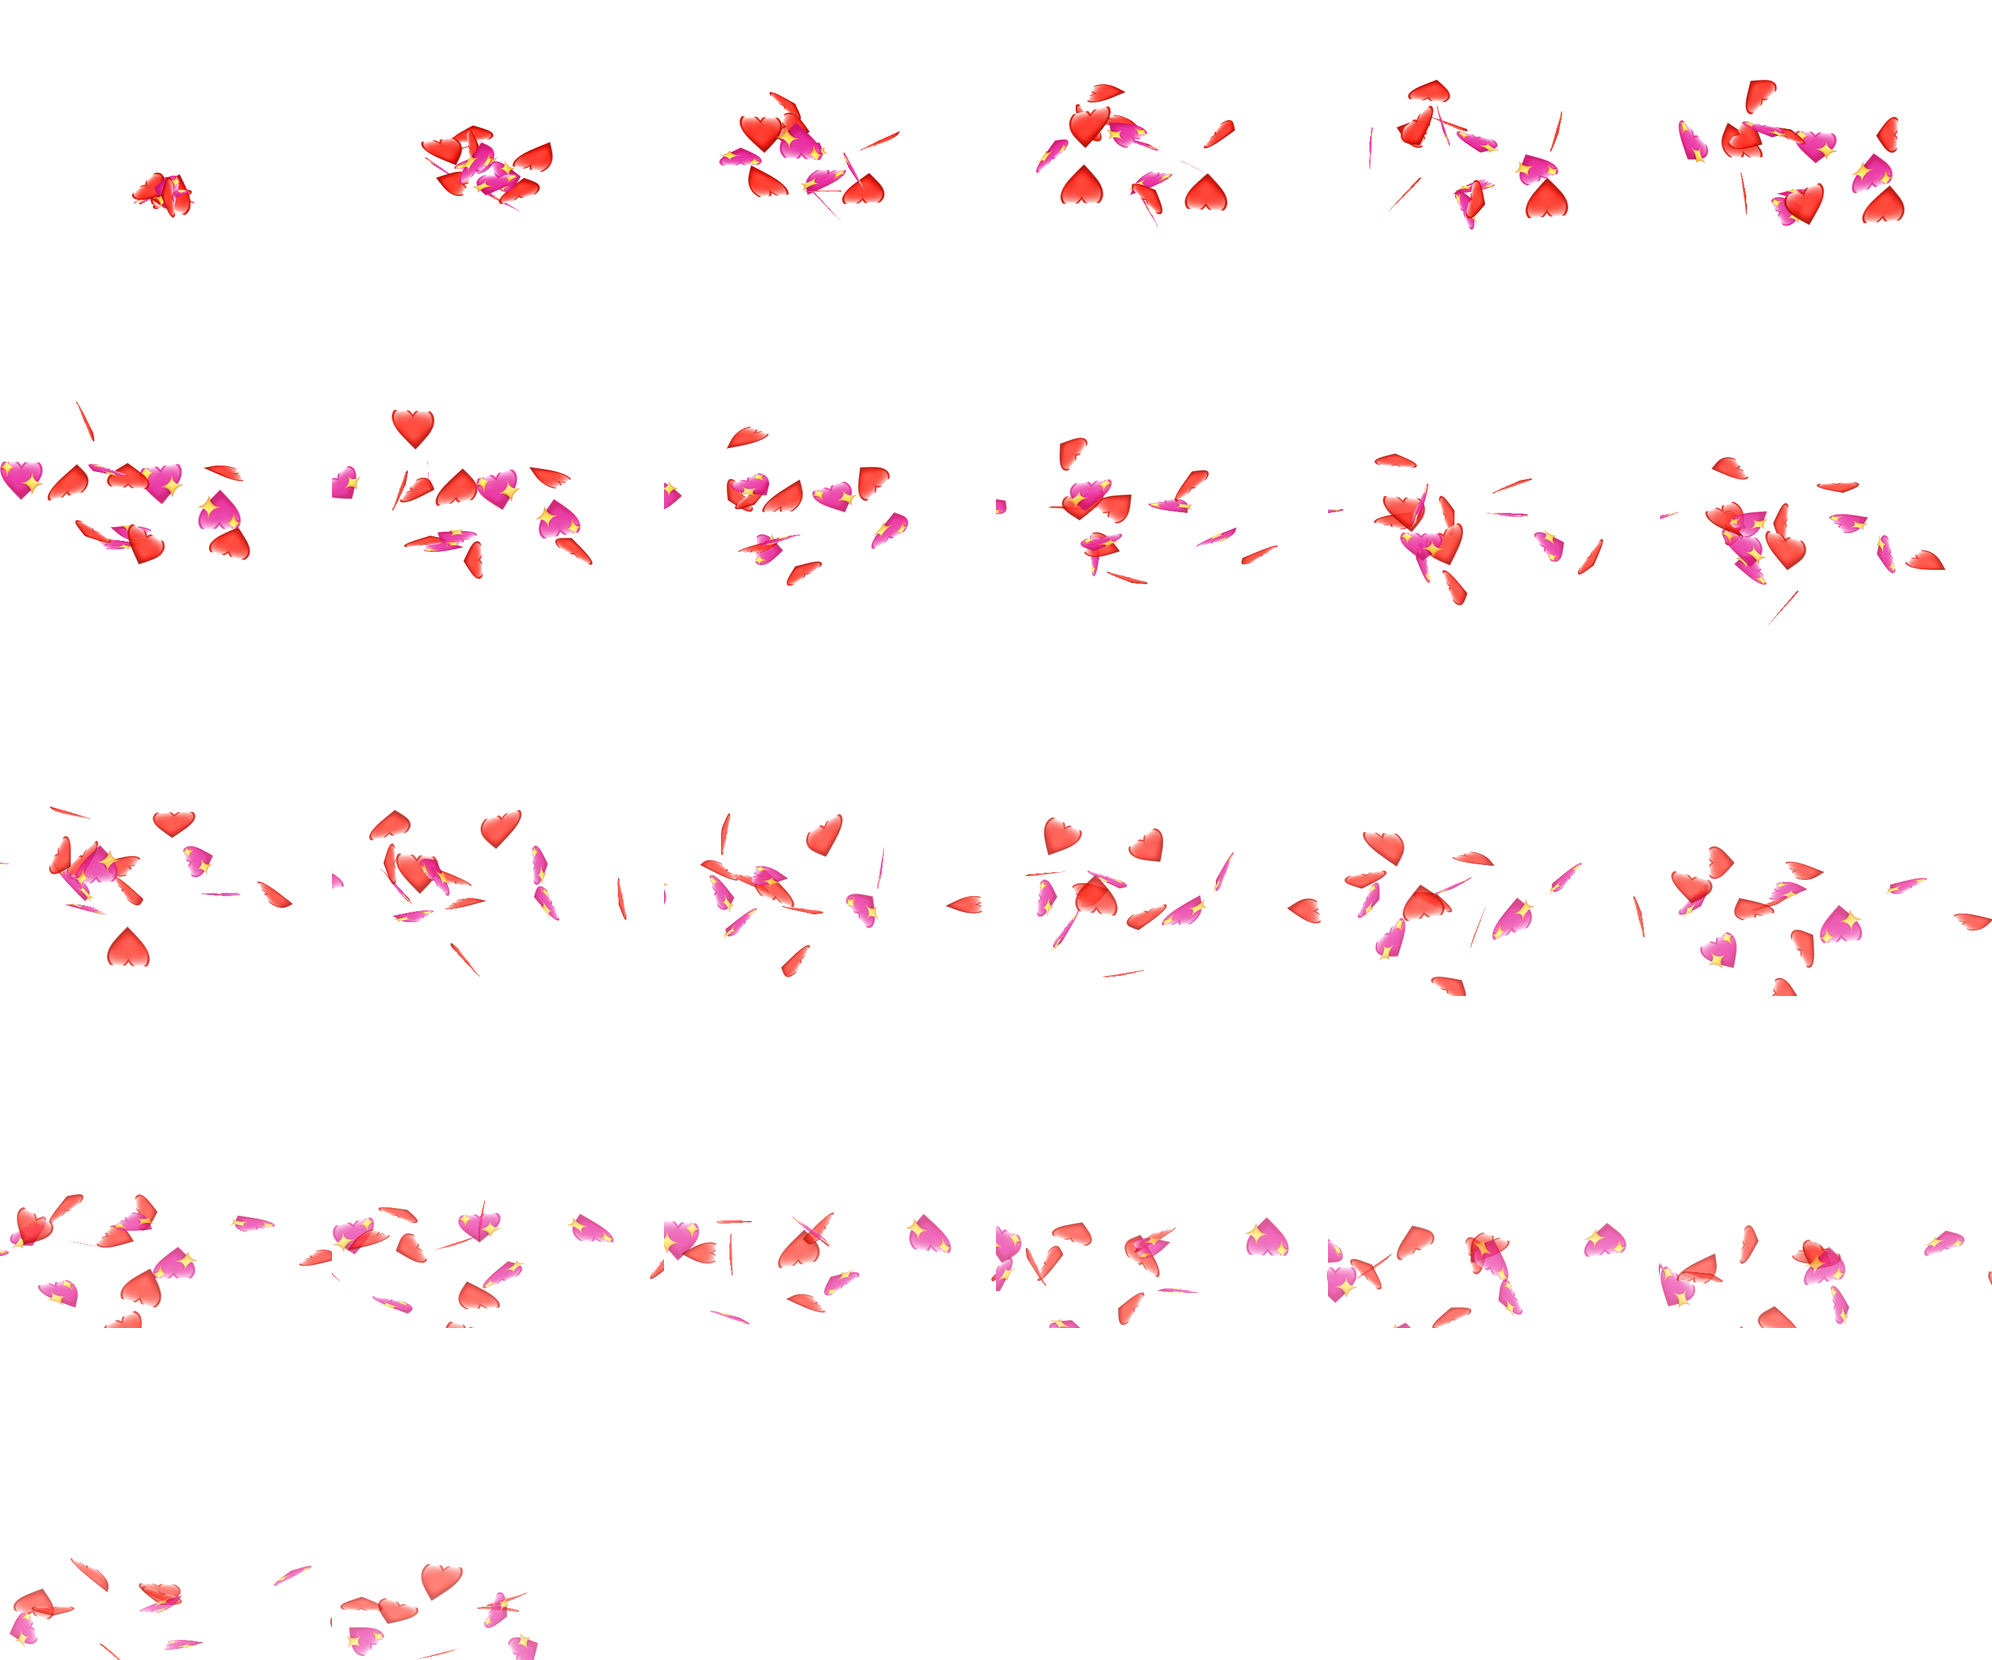
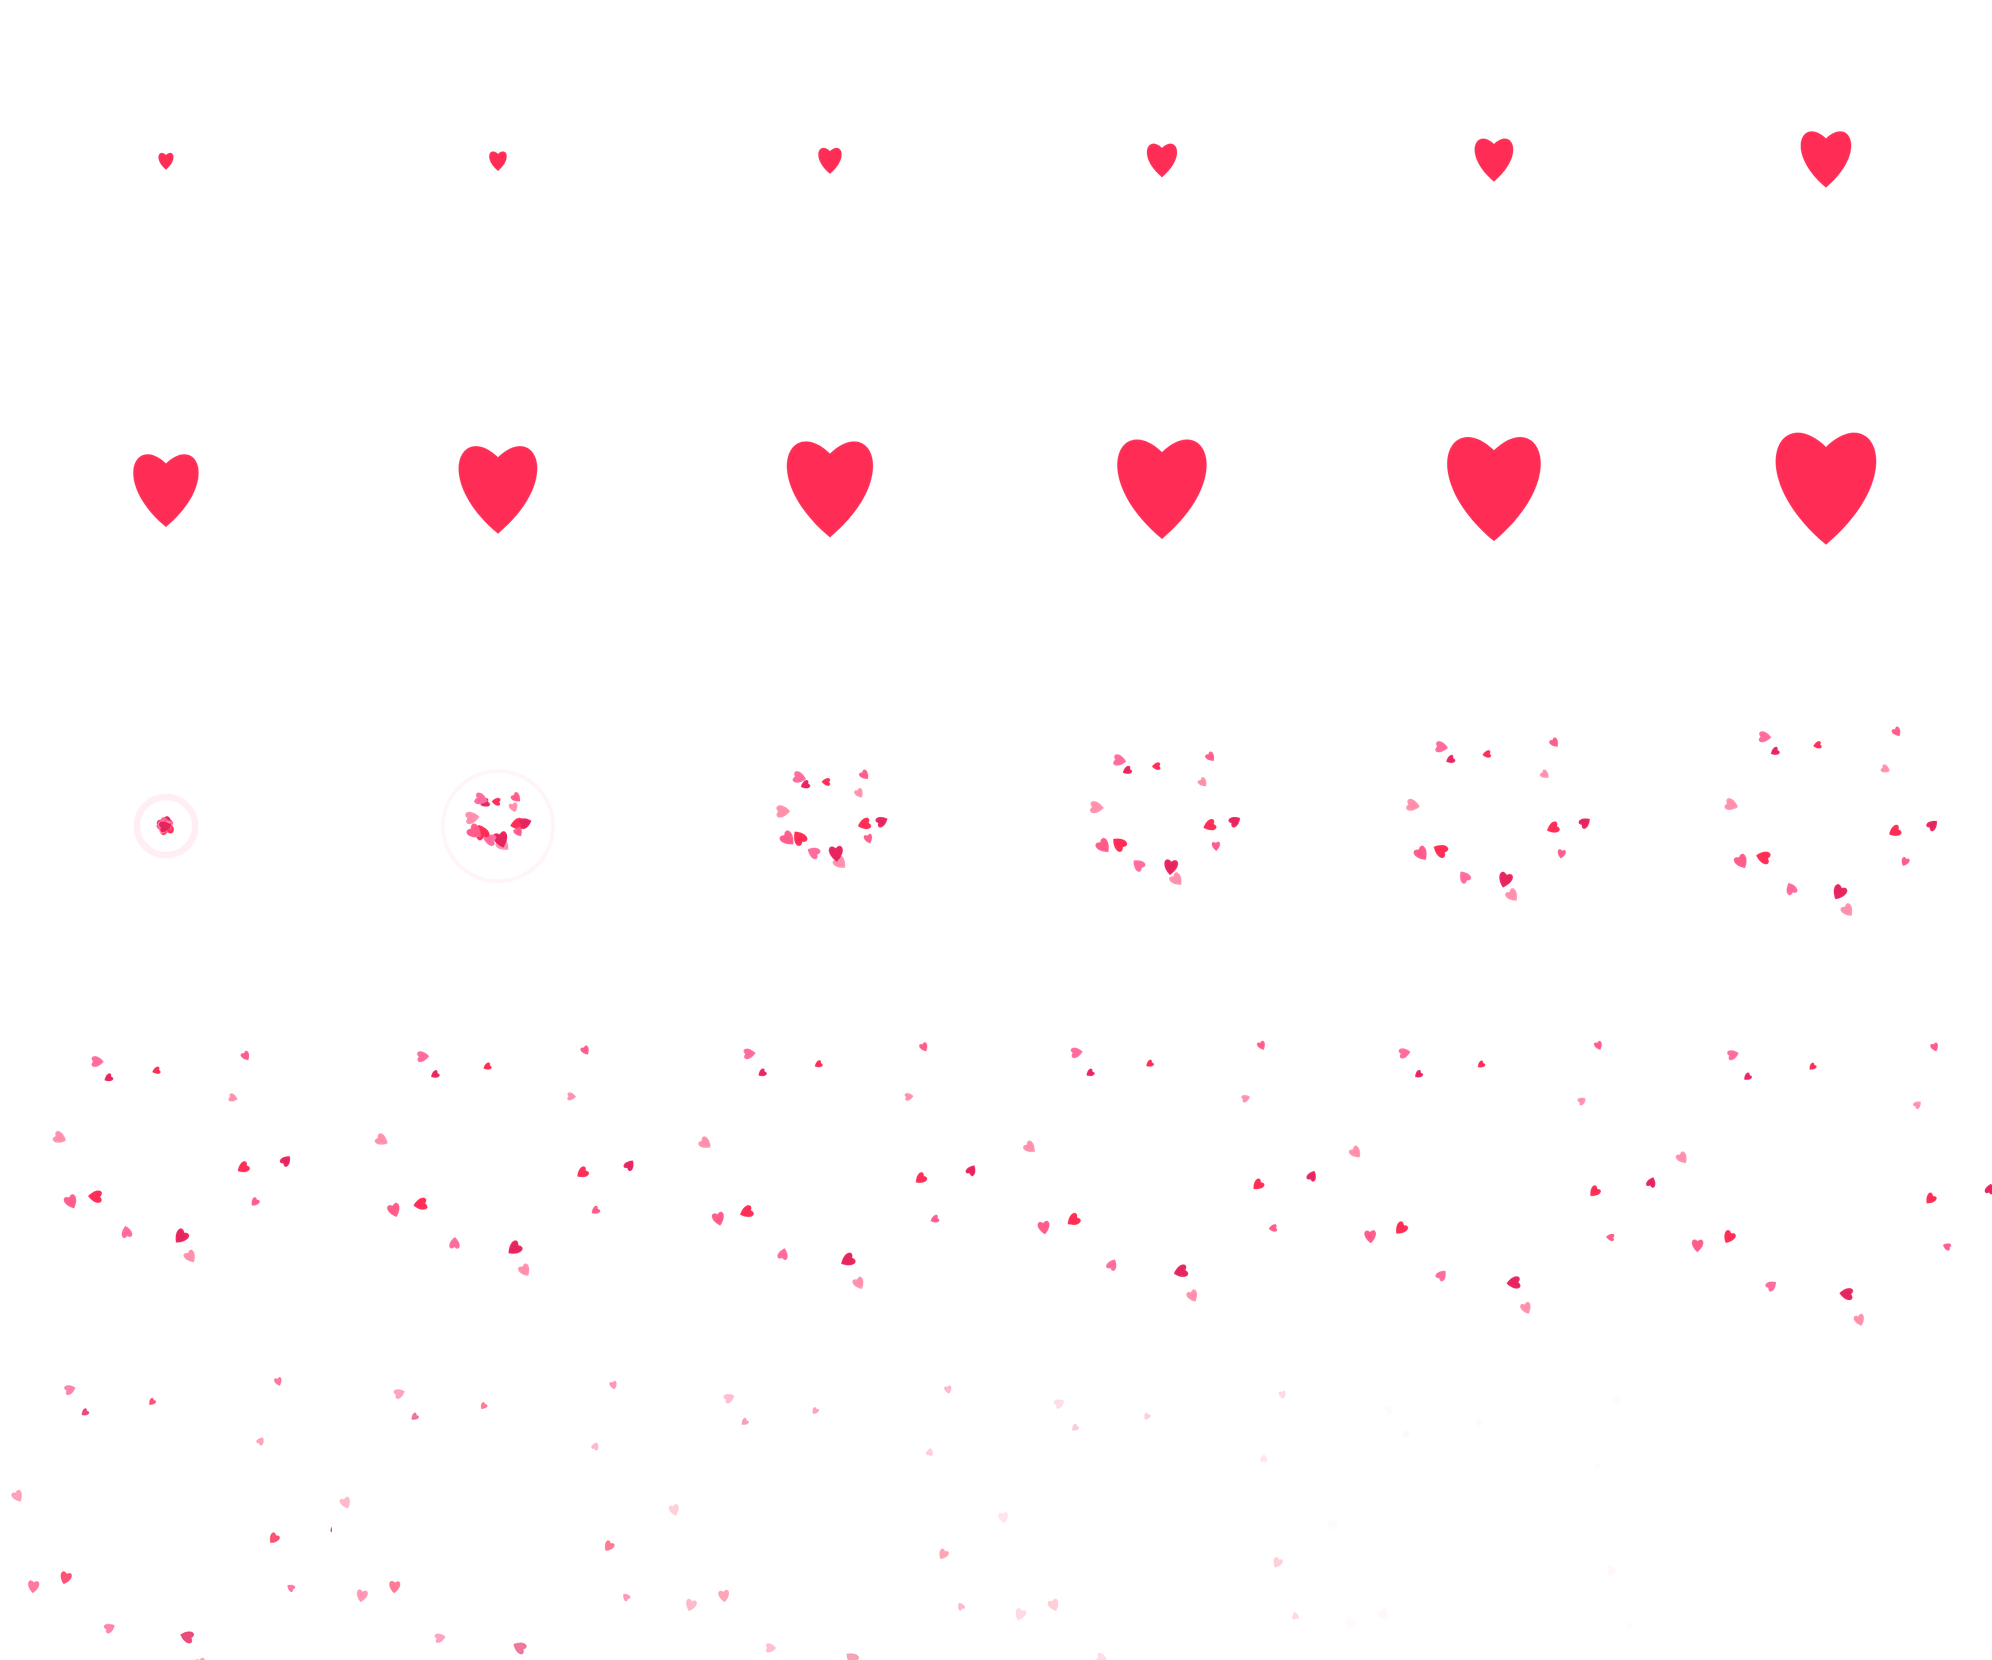
Bursting hearts redrawn by hand; fireworks run two at a time
Dave's verdict on the filmed emoji preset: 'a mess of things falling'.
The sheet is now drawn frame-by-frame on a canvas instead of filmed
from tsparticles: a heart grows with two heartbeat thumps, pops with a
small flash ring, and shatters into 14 small hearts that fly out
confetti-style, slow under drag and fade. Deterministic (seeded), so
no physics library and no filming clock; a double-rAF after each draw
fixes a compositor race that shipped 13 blank frames on the first run.

Fireworks were too sparse as a single player - there are now two
popup entries with different cycle counts (1x and 2x playthroughs per
position), so shells overlap and drift out of phase instead of firing
in lockstep. Dwell is an exact multiple of the sheet length, putting
every pop-out inside the faded tail frames.

Sheets now deploy under content-hashed names: regenerated art at the
same url would otherwise stay stale in the TV texture cache and R2.

Generator takes asset names as args (only bsheart was refilmed here;
burst.png and the firework sheet are untouched).

diff --git a/tools/generate-celebrations.js b/tools/generate-celebrations.js
@@ -48,25 +48,102 @@ const ASSETS = [
   },
   {
     name: "bsheart",
-    frames: 26,
-    // bursting hearts: the same shell with heart emoji, floatier
-    fire: `
-      confetti({ particleCount: 14, spread: 160, startVelocity: 16, ticks: 90,
-                 gravity: 0.35, scalar: 7, origin: { x: 0.5, y: 0.6 }, zIndex: 9,
-                 shapes: ["emoji"], shapeOptions: { emoji: { value: ["\\u2764\\uFE0F", "\\uD83D\\uDC96"] } } });`,
+    frames: 30,
+    // Bursting hearts, drawn by hand (Dave 2026-08-26: the filmed emoji
+    // preset "looks like a mess of things falling"). A heart grows with
+    // two heartbeat thumps, pops with a flash ring, and shatters into
+    // small hearts that fly out confetti-style, slow under drag and fade.
+    // Deterministic canvas per frame - no physics library, no waiting.
+    custom: `
+      (() => {
+        const C = document.createElement("canvas");
+        C.width = 512; C.height = 512;
+        C.style.cssText = "position:fixed;left:0;top:0";
+        document.body.appendChild(C);
+        const ctx = C.getContext("2d");
+        let s = 42;                       // seeded so every frame agrees
+        const rnd = () => (s = (s * 1664525 + 1013904223) >>> 0) / 4294967296;
+        const COLORS = ["#ff2d55", "#ff5c8a", "#ff8fab", "#e6255f", "#ff6b9d"];
+        const parts = [];
+        for (let i = 0; i < 14; i++) {
+          parts.push({
+            a: (i / 14) * Math.PI * 2 + rnd() * 0.5,
+            sp: 26 + rnd() * 22,
+            size: 20 + rnd() * 18,
+            color: COLORS[i % COLORS.length],
+            rot: rnd() * Math.PI * 2,
+            rotV: (rnd() - 0.5) * 0.5,
+          });
+        }
+        function heart(x, y, size, rot, color, alpha) {
+          ctx.save();
+          ctx.translate(x, y);
+          ctx.rotate(rot);
+          ctx.scale(size / 100, size / 100);
+          ctx.globalAlpha = alpha;
+          ctx.fillStyle = color;
+          ctx.beginPath();
+          ctx.moveTo(0, 30);
+          ctx.bezierCurveTo(-50, -12, -28, -55, 0, -28);
+          ctx.bezierCurveTo(28, -55, 50, -12, 0, 30);
+          ctx.fill();
+          ctx.restore();
+        }
+        const POP = 12, FRAMES = 30, cx = 256, cy = 250;
+        window.renderFrame = (f) => {
+          ctx.clearRect(0, 0, 512, 512);
+          if (f < POP) {
+            // smoothstep growth 0.15 -> 1 with thumps that strengthen
+            const t = f / (POP - 1);
+            const sc = 0.15 + 0.85 * (t * t * (3 - 2 * t)) + Math.sin(t * Math.PI * 4) * 0.06 * t;
+            heart(cx, cy, 260 * sc, 0, "#ff2d55", 1);
+          } else {
+            const k = f - POP;
+            if (k < 2) {                  // pop flash
+              ctx.save();
+              ctx.globalAlpha = 0.4 - k * 0.18;
+              ctx.strokeStyle = "#ffd7e2";
+              ctx.lineWidth = 10 - k * 4;
+              ctx.beginPath();
+              ctx.arc(cx, cy, 45 + k * 40, 0, Math.PI * 2);
+              ctx.stroke();
+              ctx.restore();
+            }
+            for (const p of parts) {
+              let x = cx, y = cy, vx = Math.cos(p.a) * p.sp, vy = Math.sin(p.a) * p.sp - 6;
+              for (let i = 0; i < k; i++) { x += vx; y += vy; vx *= 0.86; vy = vy * 0.86 + 2.1; }
+              const life = k / (FRAMES - POP - 1);
+              const alpha = life < 0.65 ? 1 : Math.max(0, 1 - (life - 0.65) / 0.3);
+              if (alpha > 0.01) heart(x, y, p.size * (1 - life * 0.25), p.rot + p.rotV * k, p.color, alpha);
+            }
+          }
+        };
+      })();`,
   },
 ];
 
 async function filmAsset(browser, asset) {
   const page = await browser.newPage({ viewport: { width: CANVAS, height: CANVAS } });
-  const lib = fs.readFileSync(path.join(PORTAL, "js/vendor/tsparticles.confetti.bundle.min.js"), "utf8");
   await page.setContent("<html><body style='margin:0;background:transparent'></body></html>");
-  await page.addScriptTag({ content: lib });
-  await page.evaluate(asset.fire);
   const frames = [];
-  for (let i = 0; i < asset.frames; i++) {
-    frames.push(await page.screenshot({ omitBackground: true, type: "png" }));
-    await page.waitForTimeout(FRAME_MS);
+  if (asset.custom) {
+    // deterministic renderer: draw frame i, shoot it, no clocks involved
+    await page.addScriptTag({ content: asset.custom });
+    for (let i = 0; i < asset.frames; i++) {
+      await page.evaluate("renderFrame(" + i + ")");
+      // the screenshot can beat the canvas layer's compositor commit
+      // (seen live: 13 blank frames); two rAFs guarantee the draw landed
+      await page.evaluate("new Promise(r => requestAnimationFrame(() => requestAnimationFrame(r)))");
+      frames.push(await page.screenshot({ omitBackground: true, type: "png" }));
+    }
+  } else {
+    const lib = fs.readFileSync(path.join(PORTAL, "js/vendor/tsparticles.confetti.bundle.min.js"), "utf8");
+    await page.addScriptTag({ content: lib });
+    await page.evaluate(asset.fire);
+    for (let i = 0; i < asset.frames; i++) {
+      frames.push(await page.screenshot({ omitBackground: true, type: "png" }));
+      await page.waitForTimeout(FRAME_MS);
+    }
   }
   await page.close();
   return frames;
@@ -100,11 +177,16 @@ async function packSheet(frames) {
 }
 
 (async () => {
+  // regenerate selectively: `node tools/generate-celebrations.js bsheart`
+  // (filming is non-deterministic for the tsparticles assets, so an
+  // untouched asset should not be refilmed into a noisy diff)
+  const only = process.argv.slice(2);
   const browser = await chromium.launch();
   fs.mkdirSync(path.join(REPO, "images", "celebrations"), { recursive: true });
   fs.mkdirSync(path.join(SVC, "effect-assets"), { recursive: true });
 
   for (const asset of ASSETS) {
+    if (only.length && !only.includes(asset.name)) continue;
     process.stdout.write("filming " + asset.name + "... ");
     const frames = await filmAsset(browser, asset);
     const { sheet, meta } = await packSheet(frames);

diff --git a/render-service/nativeWidgets.js b/render-service/nativeWidgets.js
@@ -1361,19 +1361,24 @@ const SCARY_GIFS = [
 ];
 
 // A pre-rendered burst sheet shipped inside the image (effect-assets/,
-// generated at build time). Dwell = exactly one playthrough, so each
-// appearance is a single burst; extraMsRange spaces the appearances.
-function bundledBurstEffect(name, outDir, extraMsRange) {
+// generated at build time). Dwell = `cycles` full playthroughs at one
+// position; the sheets end on faded/empty frames, so jitterMs pulls the
+// pop-out a touch earlier INTO that tail (never past a fresh burst) and
+// keeps multiple players of the same sheet from syncing up.
+function bundledBurstEffect(name, outDir, cycles, jitterMs) {
   const base = pathHandlers.join(__dirname, "effect-assets", "effect_" + name + "_sheet");
   const meta = JSON.parse(fsHandlers.readFileSync(base + ".json", "utf8"));
-  const file = "effect_" + name + "_sheet.png";
+  // content-hashed name: a regenerated sheet must get a NEW url, or the
+  // TV's texture cache (and R2) keep showing the old art at the old one
+  const png = fsHandlers.readFileSync(base + ".png");
+  const file = "effect_" + name + "_" + crypto.createHash("md5").update(png).digest("hex").slice(0, 8) + ".png";
   const dest = pathHandlers.join(outDir, file);
-  if (!fsHandlers.existsSync(dest)) fsHandlers.copyFileSync(base + ".png", dest);
+  if (!fsHandlers.existsSync(dest)) fsHandlers.writeFileSync(dest, png);
   const cycleMs = meta.frameCount * meta.frameMs;
   return {
     type: "popup",
     sprites: [{ stripFile: file, ...meta }],
-    dwellMsRange: [cycleMs + extraMsRange[0], cycleMs + extraMsRange[1]],
+    dwellMsRange: [cycleMs * cycles - jitterMs, cycleMs * cycles],
     popMs: 130,
   };
 }
@@ -1674,14 +1679,18 @@ async function extractEffects(frame, ctx) {
   // positions - one full playthrough per appearance.
   if (enabled.firework === true || enabled.firework === "true") {
     try {
-      out.push(bundledBurstEffect("firework", outDir, [0, 200]));
+      // two independent players so shells overlap (Dave 2026-08-26:
+      // one at a time is too sparse); different cycle counts mean their
+      // appearance boundaries drift apart instead of firing in lockstep
+      out.push(bundledBurstEffect("firework", outDir, 1, 300));
+      out.push(bundledBurstEffect("firework", outDir, 2, 300));
     } catch (e) {
       console.error("firework effect failed:", e.message);
     }
   }
   if (enabled.bsHeart === true || enabled.bsHeart === "true") {
     try {
-      out.push(bundledBurstEffect("bsheart", outDir, [100, 400]));
+      out.push(bundledBurstEffect("bsheart", outDir, 1, 100));
     } catch (e) {
       console.error("bursting hearts effect failed:", e.message);
     }
